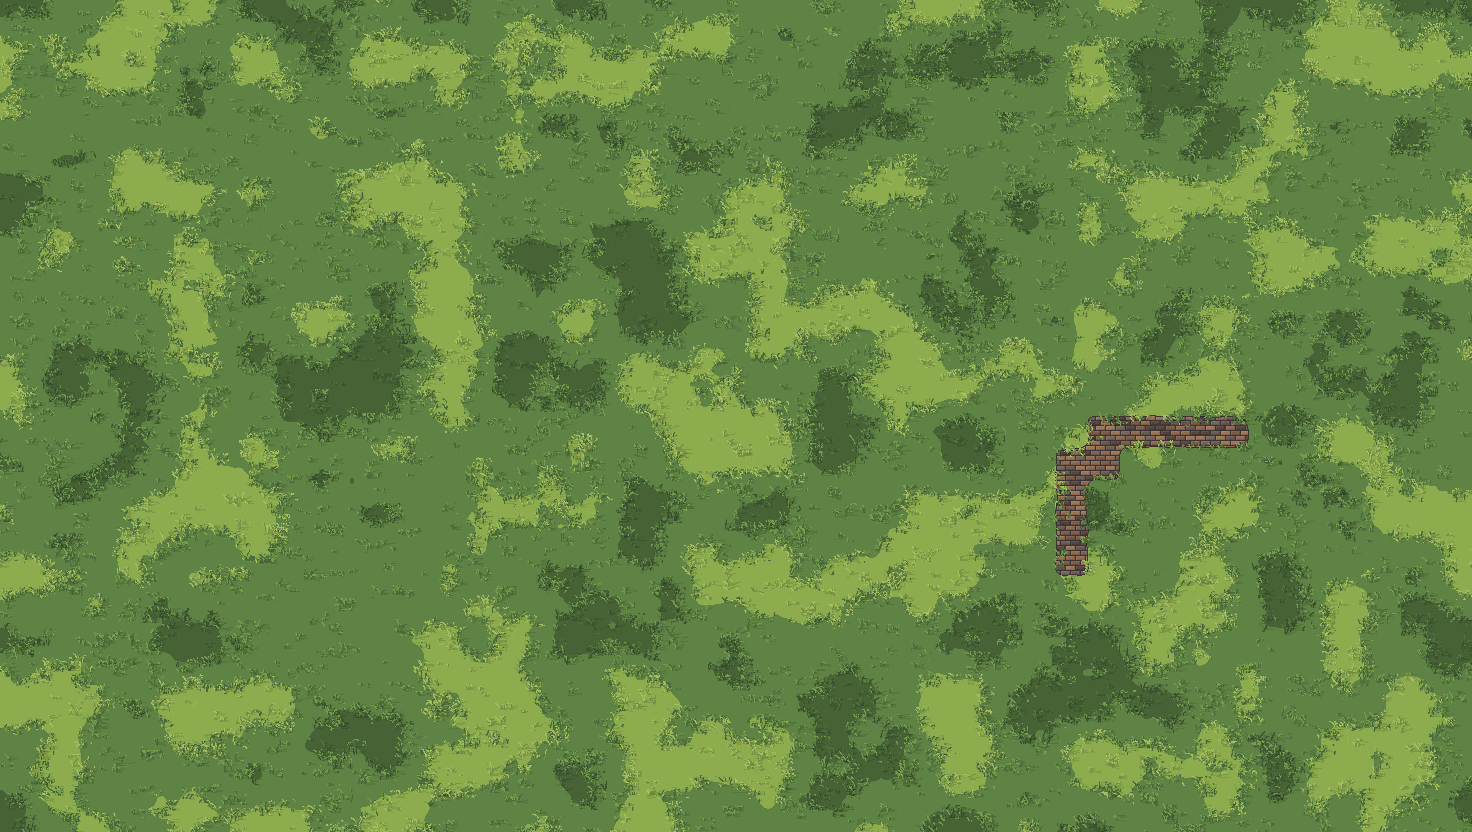
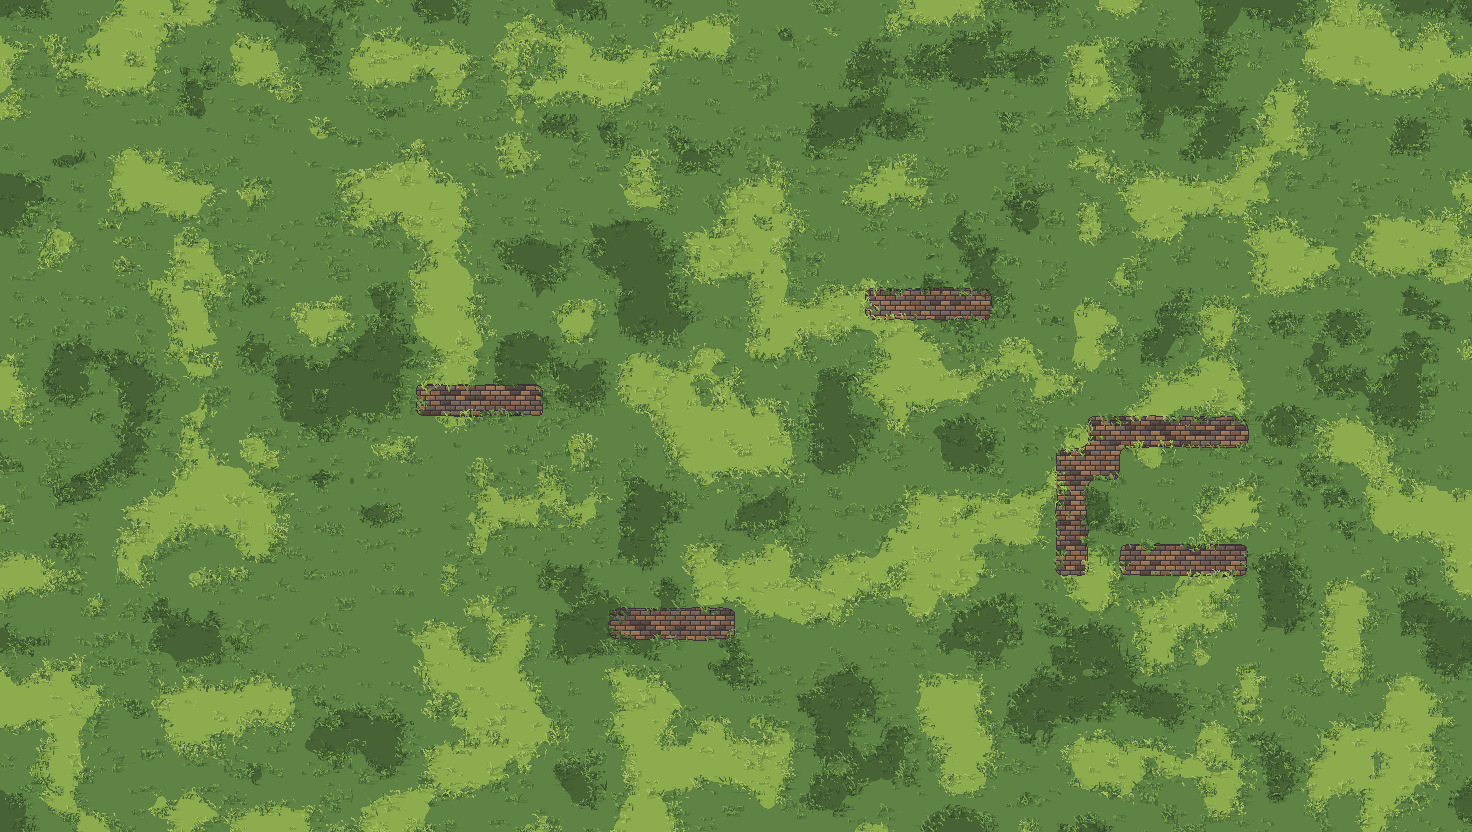
Town square paved with the same flagstones as the paths
Cobble cells are painted into the ground image like paths, so the plaza
takes the stone courses and the grass fringe; the flat cobble tile is no
longer drawn in the world scene.

Claude-Session: https://claude.ai/code/session_01Bnu1Ka1cxkrRCLbp1xNA9E

diff --git a/tools/art/grass_paint.py b/tools/art/grass_paint.py
@@ -11,7 +11,7 @@ from PIL import Image
 
 ROOT = Path(__file__).resolve().parents[2]
 TILE = 32
-GRASSY = set(".PTt\"s=")
+GRASSY = set(".PTt\"s=+")
 TONES = ("dark", "mid", "light")
 PATH = 3
 
@@ -113,8 +113,8 @@ def tone_field(shape: tuple[int, int], dials: dict, rng: np.random.Generator) ->
 
 
 def path_mask(rows: list[str], dials: dict, rng: np.random.Generator) -> np.ndarray:
-    """Stone wherever the map draws a path, its corners rounded and its edge wobbled so it reads as laid by hand."""
-    cells = np.array([[c == "=" for c in row] for row in rows])
+    """Stone wherever the map draws a path or cobbled square, its corners rounded and its edge wobbled so it reads as laid by hand."""
+    cells = np.array([[c in "=+" for c in row] for row in rows])
     mask = np.kron(cells, np.ones((TILE, TILE), dtype=bool)).astype(float)
     radius = dials["path_round"]
     kernel = np.ones(2 * radius + 1) / (2 * radius + 1)

diff --git a/tools/art/README.md b/tools/art/README.md
@@ -29,7 +29,7 @@ Declare the character in `bodies.json` (prompt, canvas size as one number or `[w
 
 ## Grass
 
-The ground under everything is painted, not tiled: `grass_paint.py [season ...]` reads `data/grass.json` (dials, and per season a palette of three tones as dark, base, light shades plus the pack sheets to cut sprigs from), the map, and the region rectangles, paints the whole world once as rounded patches of the three tones with flagstones (`stone` mortar and shades, laid in staggered courses) wherever the map draws a path, scatters sprigs over the grass and onto every edge, and crops one PNG per grassy region into `assets/grass/<region>_<season>.png`. The sprigs come from the purchased grass pack in `raw/grass_pack/` (`GrassN.png` sheets with matching `Grass ShadowN.png`): every sprig is cut out with the shadow that touches it, its blades split into dark and light by brightness and recoloured to the patch's shades. Along every patch edge, sprigs of the neighbouring tone reach across so the two bleed into each other. Regions cut from the same painting meet without a seam. `scripts/world/world.gd` shows the season's image per region under the terrain layers. Change the look by editing dials, colours, or sheets and re-running; the previews under `previews/world*.png` are how the user judges it.
+The ground under everything is painted, not tiled: `grass_paint.py [season ...]` reads `data/grass.json` (dials, and per season a palette of three tones as dark, base, light shades plus the pack sheets to cut sprigs from), the map, and the region rectangles, paints the whole world once as rounded patches of the three tones with flagstones (`stone` mortar and shades, laid in staggered courses) wherever the map draws a path or a cobbled square, scatters sprigs over the grass and onto every edge, and crops one PNG per grassy region into `assets/grass/<region>_<season>.png`. The sprigs come from the purchased grass pack in `raw/grass_pack/` (`GrassN.png` sheets with matching `Grass ShadowN.png`): every sprig is cut out with the shadow that touches it, its blades split into dark and light by brightness and recoloured to the patch's shades. Along every patch edge, sprigs of the neighbouring tone reach across so the two bleed into each other. Regions cut from the same painting meet without a seam. `scripts/world/world.gd` shows the season's image per region under the terrain layers. Change the look by editing dials, colours, or sheets and re-running; the previews under `previews/world*.png` are how the user judges it.
 
 ## Tiles
 
